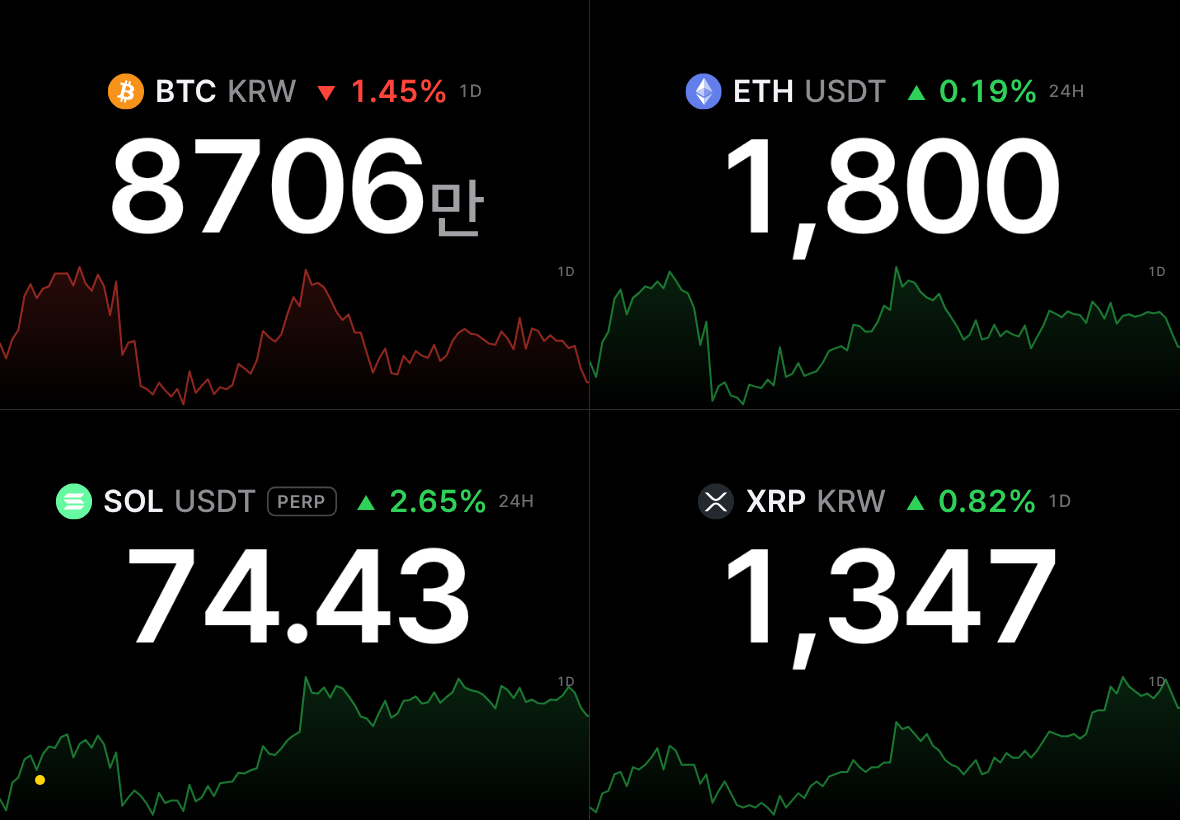
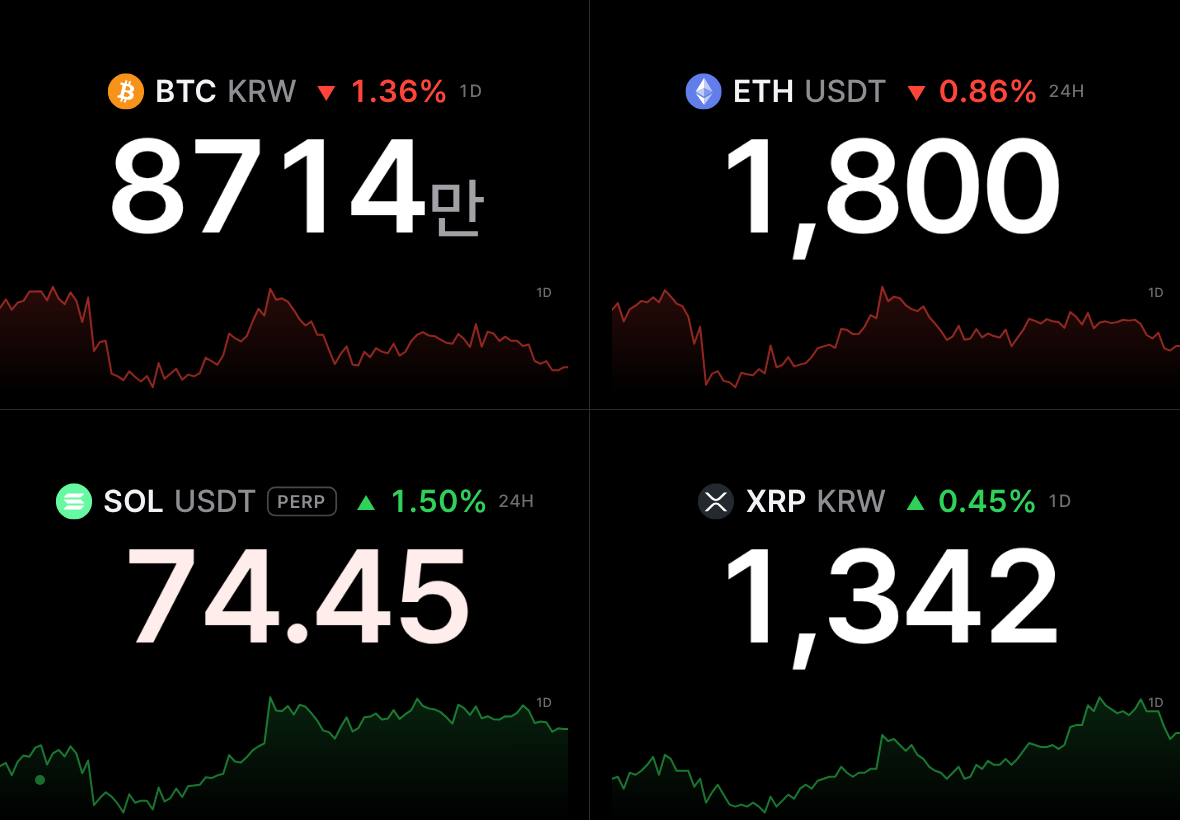
Chart coloured as the change; OLED tips in the guide; fresh screenshots (0.24.3) (#47)
- The chart takes the colour of the change shown above it, so the two
  never disagree; the period's own move colours it only before a live
  price arrives. They could differ near zero, the change counting from the
  exchange's reference and the chart from its first candle.
- Guide, keeping it on: lower the device's own brightness on an OLED
  screen, and turn on a charging limit or battery protection where the
  device offers one. Burn-in protection notes that the chart stays still.
- README and guide screenshots retaken from live prices, with the status
  dot as on a device that keeps the screen awake.

Claude-Session: https://claude.ai/code/session_014Sd3YL2WJ32HMbCc4VV95J

diff --git a/src/components/Spark.svelte b/src/components/Spark.svelte
@@ -2,9 +2,10 @@
   let made = 0;
 </script>
 <script>
+  import { direction } from '../lib/format.js';
   // The chart behind the board: the closing prices over the chosen period, then
   // the live price at its right end, as a faint line over a fading fill.
-  // Coloured by the move over the period: up or down, in the board's own
+  // Coloured up or down as the change shown above it, in the board's own
   // colours. It fills whatever box its parent gives it (the lower part of a
   // cell, or of the screen), and its line keeps one width however it is stretched.
   // The share of the height kept free below the line's lowest point; the fill fades on into it.
@@ -22,7 +23,9 @@
     const x = (time) => (time - first) / span * W;
     const y = (price) => PAD + (1 - (price - low) / range) * (H * (1 - FLOOR) - PAD);
     const coords = all.map(([time, price]) => `${x(time).toFixed(2)},${y(price).toFixed(2)}`);
-    const move = all.at(-1)[1] - all[0][1];
+    // Coloured as the change beside the price is, so the two never disagree;
+    // by the period's own move only while there is no live price yet.
+    const move = tick && Number.isFinite(tick.change) ? direction(tick.change) : all.at(-1)[1] - all[0][1];
     const path = 'M' + coords.join('L');
     return { path, area: `${path}L${W},${H}L0,${H}Z`, tone: move > 0 ? 'up' : move < 0 ? 'down' : 'flat' };
   });

diff --git a/tests/e2e/run.js b/tests/e2e/run.js
@@ -1156,10 +1156,12 @@ async function chart(browser, base) {
   // The test clock: Upbit's ten seconds between requests pass at once.
   await page.clock.install(); await page.goto(base); await live(page);
   await page.clock.runFor(12000);
-  // On by default, for a day: the chart behind the lower screen, coloured by the day's move, with its period.
+  // On by default, for a day: the chart behind the lower screen, coloured as the change, with its period.
   await page.locator('#board-chart .spark').waitFor();
   assert.match(asked[0], /candles\/minutes\/15\?market=KRW-BTC&count=97$/);
-  assert.equal(await page.locator('#board-chart .spark').getAttribute('class'), 'spark up');
+  // The day's candles rose, but the change shown is -2.50%: the chart takes the change's colour, so the two agree.
+  assert.equal(await page.locator('#board-chart .spark').getAttribute('class'), 'spark down');
+  assert.equal(await page.locator('#change').getAttribute('class'), 'change down');
   assert.equal(await text(page, '#board-chart .spark-label'), '1D');
   assert.ok((await page.locator('#board-chart .spark-line').getAttribute('d')).split('L').length >= 90, 'one point per candle, and the live price');
   // It lies across the bottom of the screen, edge to edge, held still while the board floats, below the price line wherever that floats.

diff --git a/docs/guide.ko.md b/docs/guide.ko.md
@@ -145,7 +145,7 @@ Coinboard는 코인 시세를 크게 띄워 두는 전광판입니다. 아이패
 
 **번인 방지**: OLED 화면용입니다. OLED는 오래 켜져 있던 자리가 닳아 자국이 남지만, LCD 화면은 번인이 생기지 않아 꺼도 됩니다. 기본으로 켜져 있고, 켜 두면 다음이 적용됩니다.
 
-- 1분마다 전광판이 아주 조금씩 자리를 옮깁니다(화면의 3% 이내).
+- 1분마다 전광판이 아주 조금씩 자리를 옮깁니다(화면의 3% 이내). 아래쪽 그래프는 그리는 내용이 계속 바뀌므로 움직이지 않고 제자리에 있습니다.
 - 가격은 순백색 대신 따뜻한 미색으로 그립니다.
 - 상태 점은 정상일 때 숨깁니다. 문제가 있을 때와 설정 버튼이 보일 때만 나옵니다.
 - 지연·오프라인으로 최신이 아닌 가격은 더 흐리게 그립니다.
@@ -158,7 +158,7 @@ Coinboard는 코인 시세를 크게 띄워 두는 전광판입니다. 아이패
 
 **작은 창으로 띄우기**(PC의 Chrome·Edge만): 전광판을 다른 창 위에 늘 떠 있는 작은 창으로 띄웁니다. 창 크기에 맞춰 같은 전광판을 그리고, 가격도 같은 연결로 받습니다. 위치와 크기는 마음대로 바꿀 수 있고, 같은 버튼(`작은 창 닫기`)을 누르거나 창을 닫으면 끝납니다. 탭을 닫으면 함께 닫힙니다. 다른 브라우저에는 이런 창이 없어서 버튼이 보이지 않습니다.
 
-**그래프**: 기간 동안의 가격을 화면(여러 자산이면 칸) 아래쪽 배경에 옅은 선과 채움으로 그립니다. 가격 글자를 가리지 않도록 가격 아래쪽에 깔립니다. **끔**, **15분**, **1시간**, **1일**(기본), **1주**, **1달** 중에서 고릅니다. 거래소의 과거 시세(봉)로 그리고 마지막 점은 실시간 가격입니다. 기간 동안 올랐으면 상승 색, 내렸으면 하락 색입니다(등락 색 설정을 따름). 전광판에는 기간이 그래프 오른쪽 위에 `15M`, `1H`, `1D`, `7D`, `30D`로 적힙니다. 업비트·빗썸의 등락률은 전일 종가 대비이고 `1D` 그래프는 최근 24시간이라, 둘의 방향이 다를 수 있습니다. 과거 시세를 받을 수 없는 경우(차단 지역의 바이낸스 선물·바이비트 등)에는 그래프가 나오지 않습니다. 코인원은 과거 시세를 웹페이지에 내주지 않아 그래프가 없습니다. 업비트는 브라우저의 요청을 10초에 한 번만 받기 때문에, 업비트 그래프는 시세가 뜬 뒤 10초 남짓 간격으로 하나씩 나타납니다.
+**그래프**: 기간 동안의 가격을 화면(여러 자산이면 칸) 아래쪽 배경에 옅은 선과 채움으로 그립니다. 가격 글자를 가리지 않도록 가격 아래쪽에 깔립니다. **끔**, **15분**, **1시간**, **1일**(기본), **1주**, **1달** 중에서 고릅니다. 거래소의 과거 시세(봉)로 그리고 마지막 점은 실시간 가격입니다. 색은 위의 등락률과 같습니다(등락 색 설정을 따름). 그래프 모양과 등락률의 기준 시점이 조금 달라도 색이 서로 어긋나지 않습니다. 전광판에는 기간이 그래프 오른쪽 위에 `15M`, `1H`, `1D`, `7D`, `30D`로 적힙니다. 업비트·빗썸의 등락률은 전일 종가 대비이고 `1D` 그래프는 최근 24시간이라, 둘의 방향이 다를 수 있습니다. 과거 시세를 받을 수 없는 경우(차단 지역의 바이낸스 선물·바이비트 등)에는 그래프가 나오지 않습니다. 코인원은 과거 시세를 웹페이지에 내주지 않아 그래프가 없습니다. 업비트는 브라우저의 요청을 10초에 한 번만 받기 때문에, 업비트 그래프는 시세가 뜬 뒤 10초 남짓 간격으로 하나씩 나타납니다.
 
 **등락 색**: 실제 색으로 그린 견본 두 개 중에서 누릅니다. `초록 · 빨강`(상승 초록, 하락 빨강) 또는 한국식 `빨강 · 파랑`(상승 빨강, 하락 파랑).
 
@@ -176,6 +176,8 @@ Coinboard는 코인 시세를 크게 띄워 두는 전광판입니다. 아이패
 - **자동 잠금**: 앱이 화면을 켜 두지만, 확실하게 하려면 설정 → 디스플레이 및 밝기 → 자동 잠금을 **안 함**으로 둡니다.
 - **화면 고정(선택)**: 아이패드의 손쉬운 사용 → **사용법 유도**를 켜면 다른 앱으로 넘어가지 않게 고정할 수 있습니다.
 - **번인 방지**: OLED 화면이면 켜 둡니다.
+- **기기 밝기 낮추기(OLED)**: 번인은 밝을수록 빨리 진행됩니다. 앱의 밝기 슬라이더도 화면을 어둡게 하지만, 기기 자체의 밝기를 실내에서 읽을 수 있는 만큼만 낮추는 것이 화면 수명에 가장 좋습니다. 자동 밝기를 켜 두면 밤에 알아서 어두워집니다.
+- **충전 한도 설정**: 늘 충전기에 꽂아 두면 배터리가 100%에 머물러 빨리 닳습니다. 기기 설정에 충전 한도(예: 85%)나 배터리 보호 기능이 있으면 켜 둡니다.
 
 ## 업데이트
 

diff --git a/docs/guide.md b/docs/guide.md
@@ -145,7 +145,7 @@ The change shown is the one each exchange gives: against the previous day's clos
 
 **Burn-in Protection**: for an OLED screen, which wears where it stays lit; an LCD screen does not burn in and does not need it. On by default. While it is on:
 
-- the board floats a little (within 3% of the screen) towards a new spot every minute;
+- the board floats a little (within 3% of the screen) towards a new spot every minute (the chart below stays where it is: what it draws keeps changing);
 - the price is a warm off-white instead of pure white;
 - the status dot is hidden while all is well (it shows when something is wrong, and with the settings button);
 - a price that is not current (delayed, offline) is dimmed further;
@@ -158,7 +158,7 @@ Switched off, the board looks as it always did.
 
 **Pop Out** (desktop Chrome and Edge only): opens the board in a small window that stays on top of other windows, drawn to the window's size, with the same prices. Move and resize it as you like; press the button again (**Close Pop-out**) or close the window to end it. It closes with the tab. Other browsers do not offer such windows, so the button is not shown there.
 
-**Chart**: the price over a period, as a faint line and fill across the lower part of the screen (of each cell, with several assets), below the price so as not to cover it: **Off**, **15m**, **1h**, **1d** (the default), **1w** or **1mo**. It is drawn from the exchange's own candles and ends at the live price; it is green when the price rose over the period and red when it fell (in the up/down colors chosen). The board writes the period at the chart's top right: `15M`, `1H`, `1D`, `7D`, `30D`. On Upbit and Bithumb the change is against the previous day's close while a `1D` chart covers the last 24 hours, so the two can point different ways. Where an exchange's past prices cannot be had (Binance futures or Bybit in a restricted region), its chart is simply not shown. Coinone does not give web pages its past prices, so its coins have no chart. Upbit lets a browser ask it something only once every ten seconds, so Upbit charts appear one by one, about ten seconds apart, after the prices.
+**Chart**: the price over a period, as a faint line and fill across the lower part of the screen (of each cell, with several assets), below the price so as not to cover it: **Off**, **15m**, **1h**, **1d** (the default), **1w** or **1mo**. It is drawn from the exchange's own candles and ends at the live price; it takes the color of the change above it (in the up/down colors chosen), so the two never disagree even where the chart's period and the change's reference differ a little. The board writes the period at the chart's top right: `15M`, `1H`, `1D`, `7D`, `30D`. On Upbit and Bithumb the change is against the previous day's close while a `1D` chart covers the last 24 hours, so the two can point different ways. Where an exchange's past prices cannot be had (Binance futures or Bybit in a restricted region), its chart is simply not shown. Coinone does not give web pages its past prices, so its coins have no chart. Upbit lets a browser ask it something only once every ten seconds, so Upbit charts appear one by one, about ten seconds apart, after the prices.
 
 **Up/Down Colors**: two samples drawn in their own colors: **Green · Red** (up green, down red) or the Korean convention **Red · Blue** (up red, down blue).
 
@@ -176,6 +176,8 @@ For a board that stays up:
 - **Auto-Lock**: the app keeps the screen on, but to be sure set Settings → Display & Brightness → Auto-Lock to **Never**.
 - **Lock it to the app (optional)**: Accessibility → **Guided Access** keeps the device in Coinboard.
 - **Burn-in protection**: leave it on for an OLED screen.
+- **Lower the device's brightness (OLED)**: burn-in goes faster the brighter the screen. The app's brightness slider dims the board too, but turning the device's own brightness down to what reads well indoors does the most for the screen's life. Auto-brightness dims it at night by itself.
+- **Limit charging**: always plugged in, the battery sits at 100% and wears faster. If the device's settings offer a charging limit (for example 85%) or battery protection, turn it on.
 
 ## Updates
 
